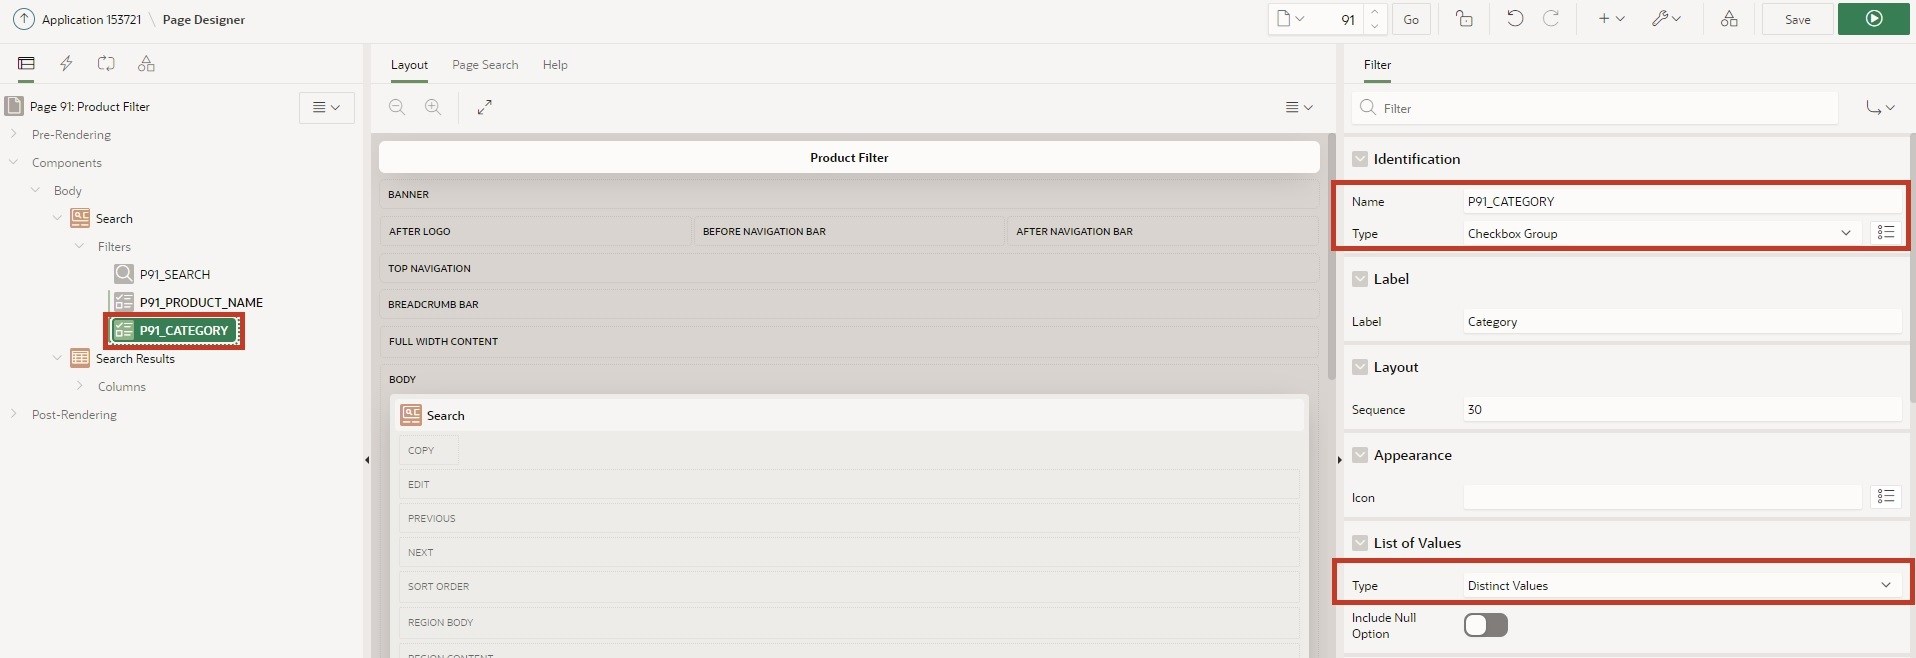
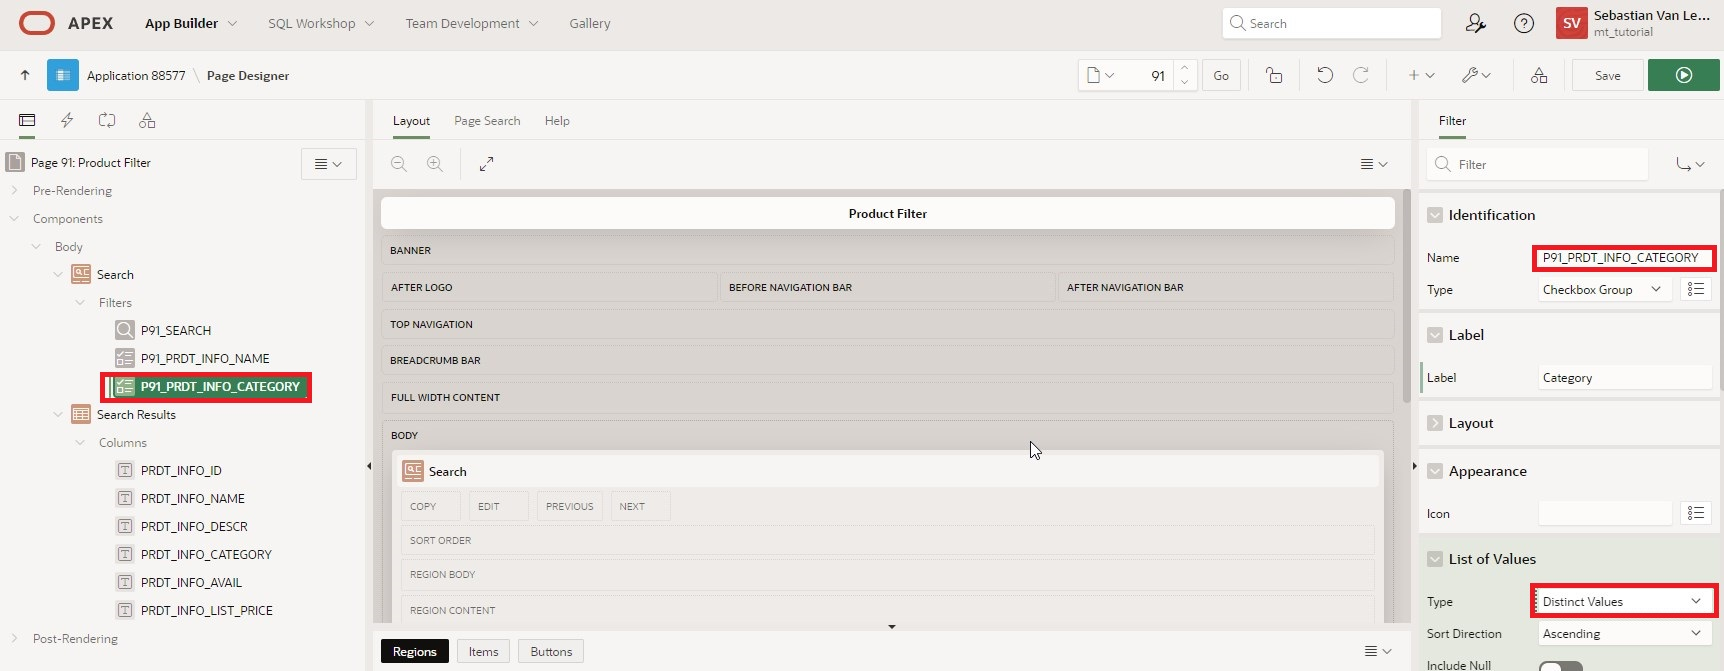
Update 23.2 Kapitel 9 + 10

diff --git a/docs/Kapitel-09/Kapitel-09 - Faceted Search.md b/docs/Kapitel-09/Kapitel-09 - Faceted Search.md
@@ -11,12 +11,12 @@ Für die Bearbeitung dieser Aufgabe wird eine **View** benötigt.
 **Query**:
 
  ```sql
-select prdt_info_id as product_id,
-       prdt_info_name as product_name,
-       prdt_info_descr as product_description,
-       prdt_info_category as category,
-       prdt_info_avail as product_avail,
-       prdt_info_list_price as list_price 
+select prdt_info_id,
+       prdt_info_name,
+       prdt_info_descr,
+       prdt_info_category,
+       prdt_info_avail,
+       prdt_info_list_price 
 from product_info
  ```
  
@@ -60,11 +60,14 @@ Die Daten werden im rechten Seitenbereich als **Classic Report** dargestellt. Li
 | **Label** | *Category*| 
 | **List of Values**|  |
 | Type | *SQL Query* |
-| SQL Query | select distinct category as d, <br> category as r <br> from TUTO_P0051_VW| 
+| SQL Query | select distinct prdt_info_category as d, <br> prdt_info_category as r <br> from TUTO_P0051_VW| 
 | | |
 
-
 ![](../../assets/Kapitel-09/Faceted_06.jpg) 
+
+Scrollen Sie weiter bis zum Abschnitt **Source**. Ändern Sie die Database Column auf **PRDT_INFO_CATEGORY**.
+
+![](../../assets/Kapitel-09/Faceted_06a.jpg) 
 
 - Starten Sie die **Seite**, indem Sie auf den **Run**-Button klicken.
 
@@ -93,7 +96,8 @@ In der Faceted Search Region befindet sich jetzt ein neues Element mit drei Chec
  
 ![](../../assets/Kapitel-09/Faceted_09.jpg) 
 
-- Setzen Sie den **Data Type** für die Spalte **LIST_PRICE** auf ****NUMBER****.  
+- Setzen Sie unter **Source** die **Database Column** auf **PRDT_INFO_LIST_PRICE** und den **Data Type** für die Spalte **LIST_PRICE** auf ****NUMBER****.  
+
 - Speichern Sie und rufen Sie erneut die Seite auf. 
 
 ![](../../assets/Kapitel-09/Faceted_10.jpg) 

diff --git a/docs/Kapitel-10/Kapitel-10 - Smart Filters.md b/docs/Kapitel-10/Kapitel-10 - Smart Filters.md
@@ -5,12 +5,12 @@ Für die Bearbeitung dieser Aufgabe wird eine **View** benötigt.
 **View Name: TUTO_P0091_VW**
 Query:
  ```sql
-select prdt_info_id as product_id,
-       prdt_info_name as product_name,
-       prdt_info_descr as product_description,
-       prdt_info_category as category,
-       prdt_info_avail as product_avail,
-       prdt_info_list_price as list_price 
+select prdt_info_id,
+       prdt_info_name,
+       prdt_info_descr,
+       prdt_info_category,
+       prdt_info_avail,
+       prdt_info_list_price
 from product_info
 ```
 
@@ -32,7 +32,7 @@ from product_info
 ![](../../assets/Kapitel-10/Smart_03.jpg)  
 
 - Rufen Sie anschließend die Seite über den **Run**-Button auf.  
-Die Daten werden als **Classic Report** dargestellt. Darüber befindet sich eine Suchleiste, unter welcher die Chips angezeigt werden, die im Folgenden hinzugefügt werden.  
+Die Daten werden als **Classic Report** dargestellt. Darüber befindet sich eine Suchleiste, unter welcher die Filter als Chips angezeigt werden, die im Folgenden hinzugefügt werden.  
 
 ![](../../assets/Kapitel-10/Smart_04.jpg)  
  
@@ -46,7 +46,7 @@ Die Daten werden als **Classic Report** dargestellt. Darüber befindet sich eine
   | | |  
   |--|--|
   | **Identification** |  |
-  | Name | *P91_PRODUCT_NAME* |
+  | Name | *P91_PRDT_INFO_NAME* |
   | Type | *Checkbox Group* |  
   | **Label**| *Product Name* |
   | **List of Values** |  |
